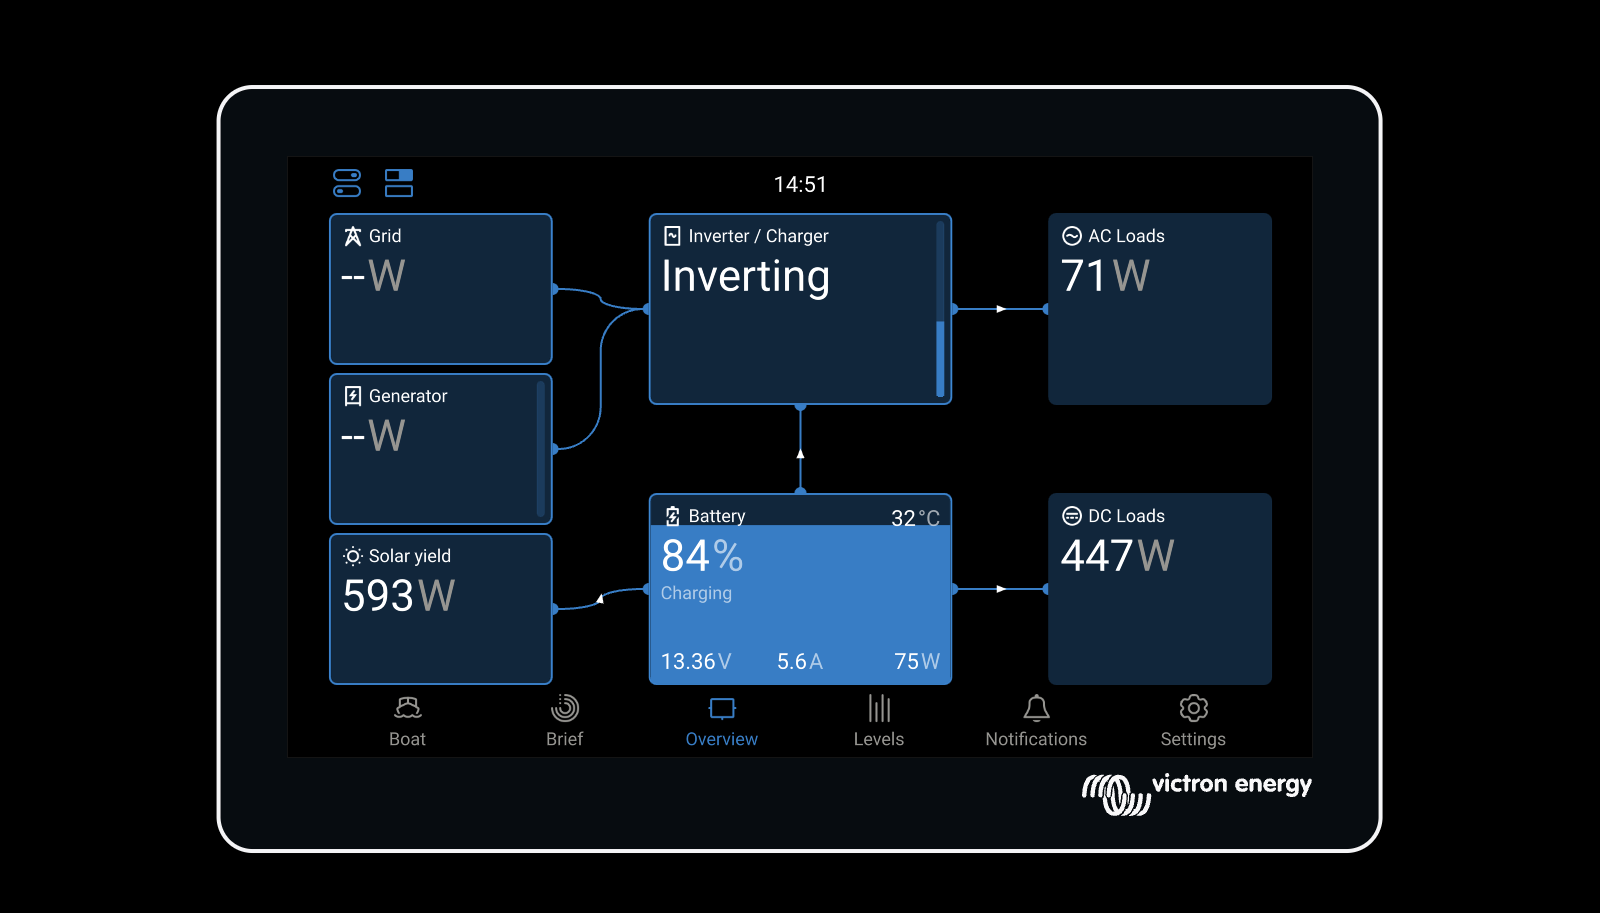
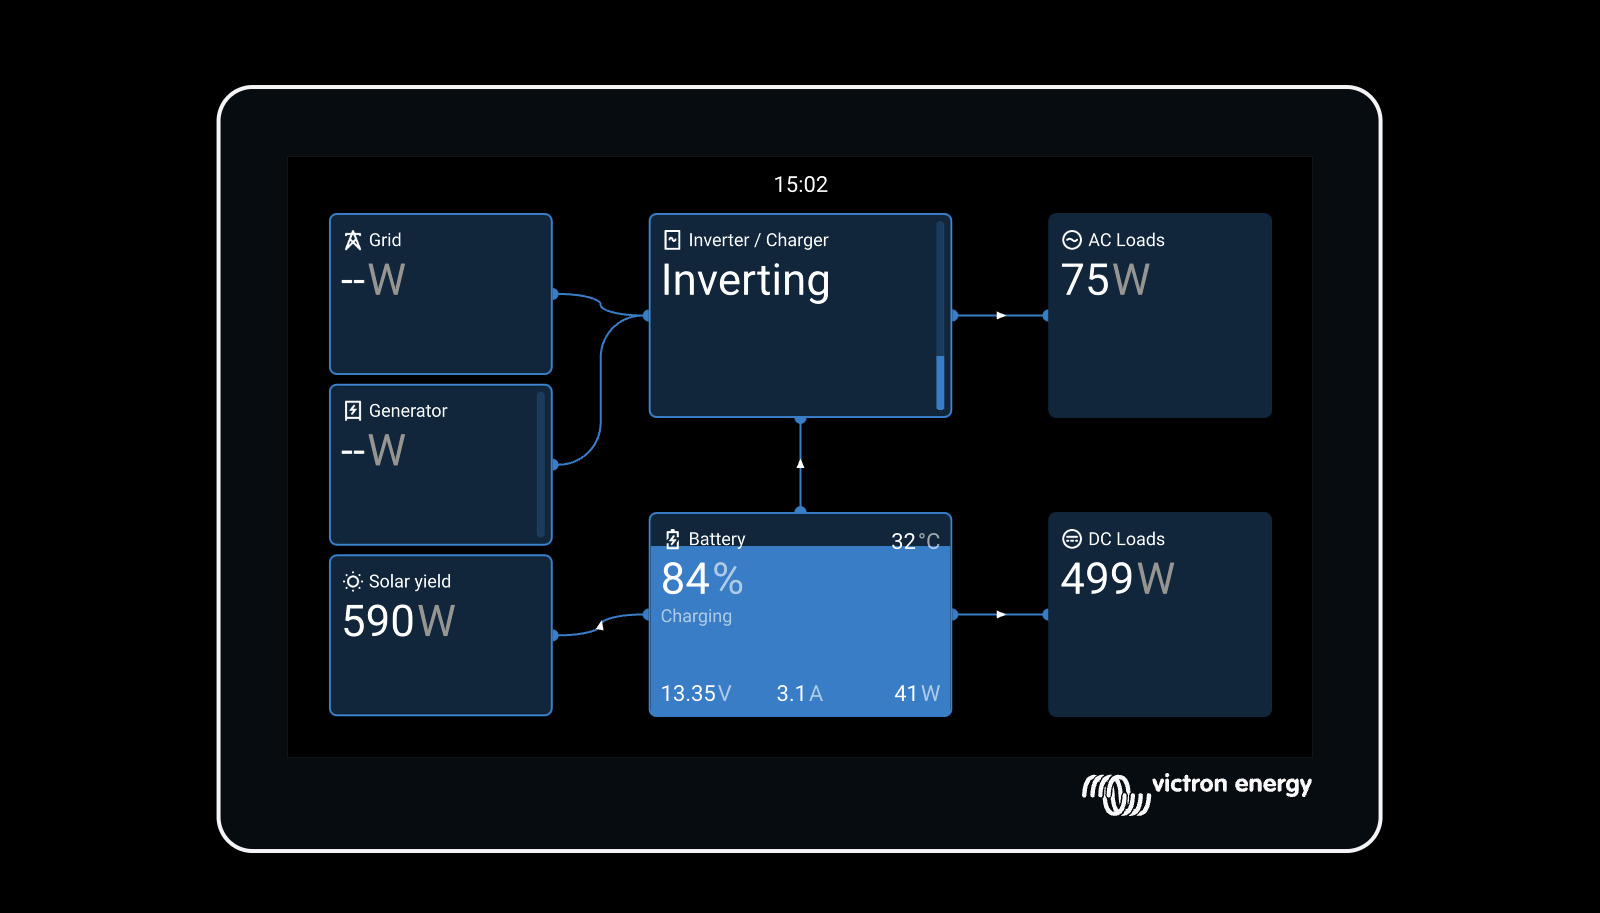
Add flow diagrams and switch automation docs

diff --git a/docs/SWITCH_SERVICE_HANDOVER.md b/docs/SWITCH_SERVICE_HANDOVER.md
@@ -411,24 +411,19 @@ Potential rules:
 - warn and optionally disable after abnormal continuous activity;
 - alarm when disabled but running feedback remains active.
 
-### Bilge alarms
+### 11.4 Deployed Node-RED Automation Flows
 
-Do not automatically stop a long-running bilge. Long runtime can indicate water
-ingress and should escalate alarms while pumping continues.
+The switch service integrates with automated flows on Node-RED (`https://venus.local:1881/`):
 
-Suggested starting policy:
+#### 1. Automatic Sunset/Sunrise Anchor Light Controller (`Anchor Light Auto`)
+Monitors vessel GPS position (`com.victronenergy.gps`), computes local sunrise/sunset, and controls the Anchor Light switch automatically when Auto mode is selected on D-Bus.
 
-```text
-running 0 -> 1            immediate event
-running > 2 minutes       warning
-running > 5 minutes       critical alarm
-several cycles/hour       repeated-ingress warning
-mode OFF + running        immediate anomaly alarm
-MANUAL + no running       command/pump fault after confirmation delay
-running 1 -> 0            close event and record duration
-```
+![Anchor Light Auto Flow](images/node-red-anchor-light-auto-flow.png)
 
-Thresholds must be tuned from actual vessel behaviour.
+#### 2. Real-Time Bilge Alarms & Monitoring (`Bilge Alarms & Monitor`)
+Listens to continuous pump motor telemetry (`0x02141808`) and mode registers (`0x02140808`), providing 2-minute run warnings, 5-minute critical alarms, and mode-OFF anomaly injection into Venus OS GUI notifications.
+
+![Bilge Alarms and Monitor Flow](images/node-red-bilge-alarms-and-monitor-flow.png)
 
 ## 12. Rollback
 

diff --git a/docs/AC_POWER_AND_INVERTERS.md b/docs/AC_POWER_AND_INVERTERS.md
@@ -139,3 +139,5 @@ The flow (`cerbo/node-red-ac-power-flow.json`) monitors all D-Bus paths and main
 ```
 
 This flow is automatically installed, staged, and merged non-destructively by `install.sh`.
+
+![Node-RED AC Power Routing Flow](images/node-red-ac-power-and-inverter-routing-flow.png)
